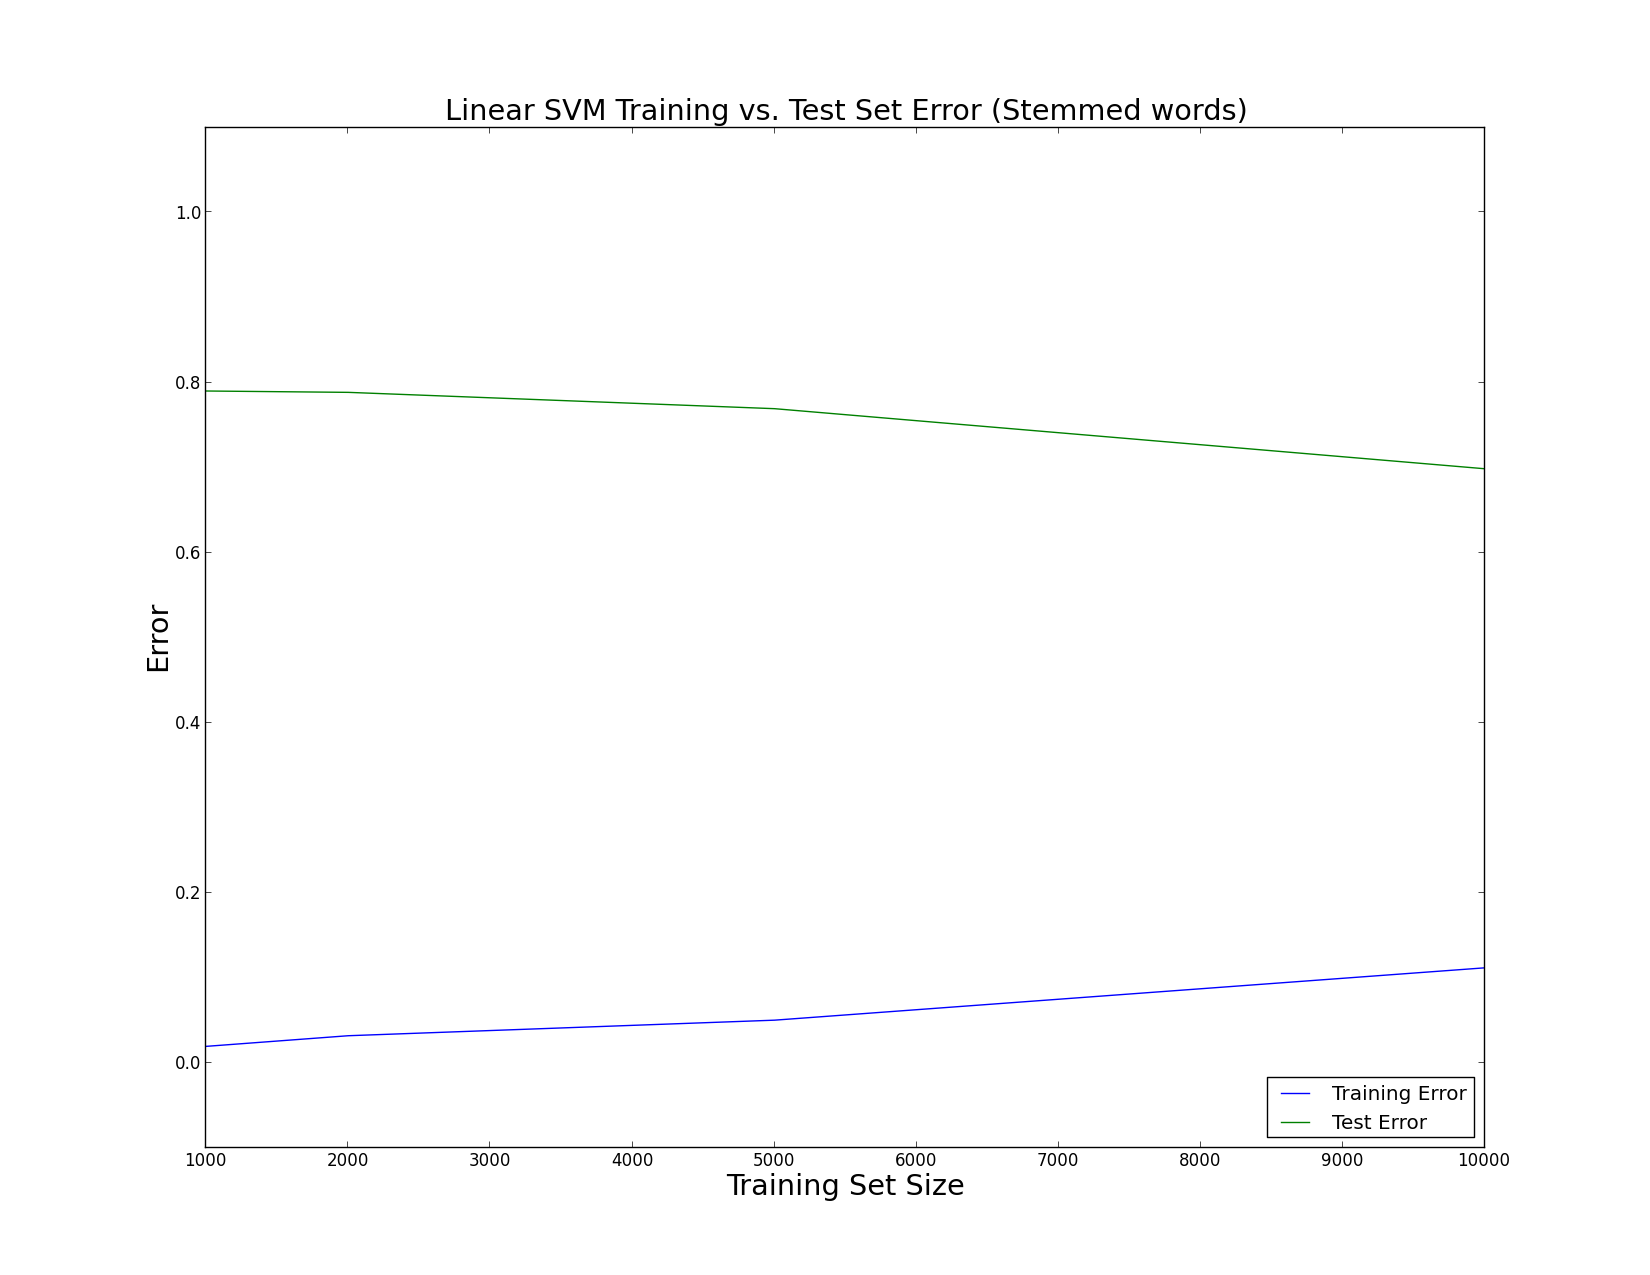
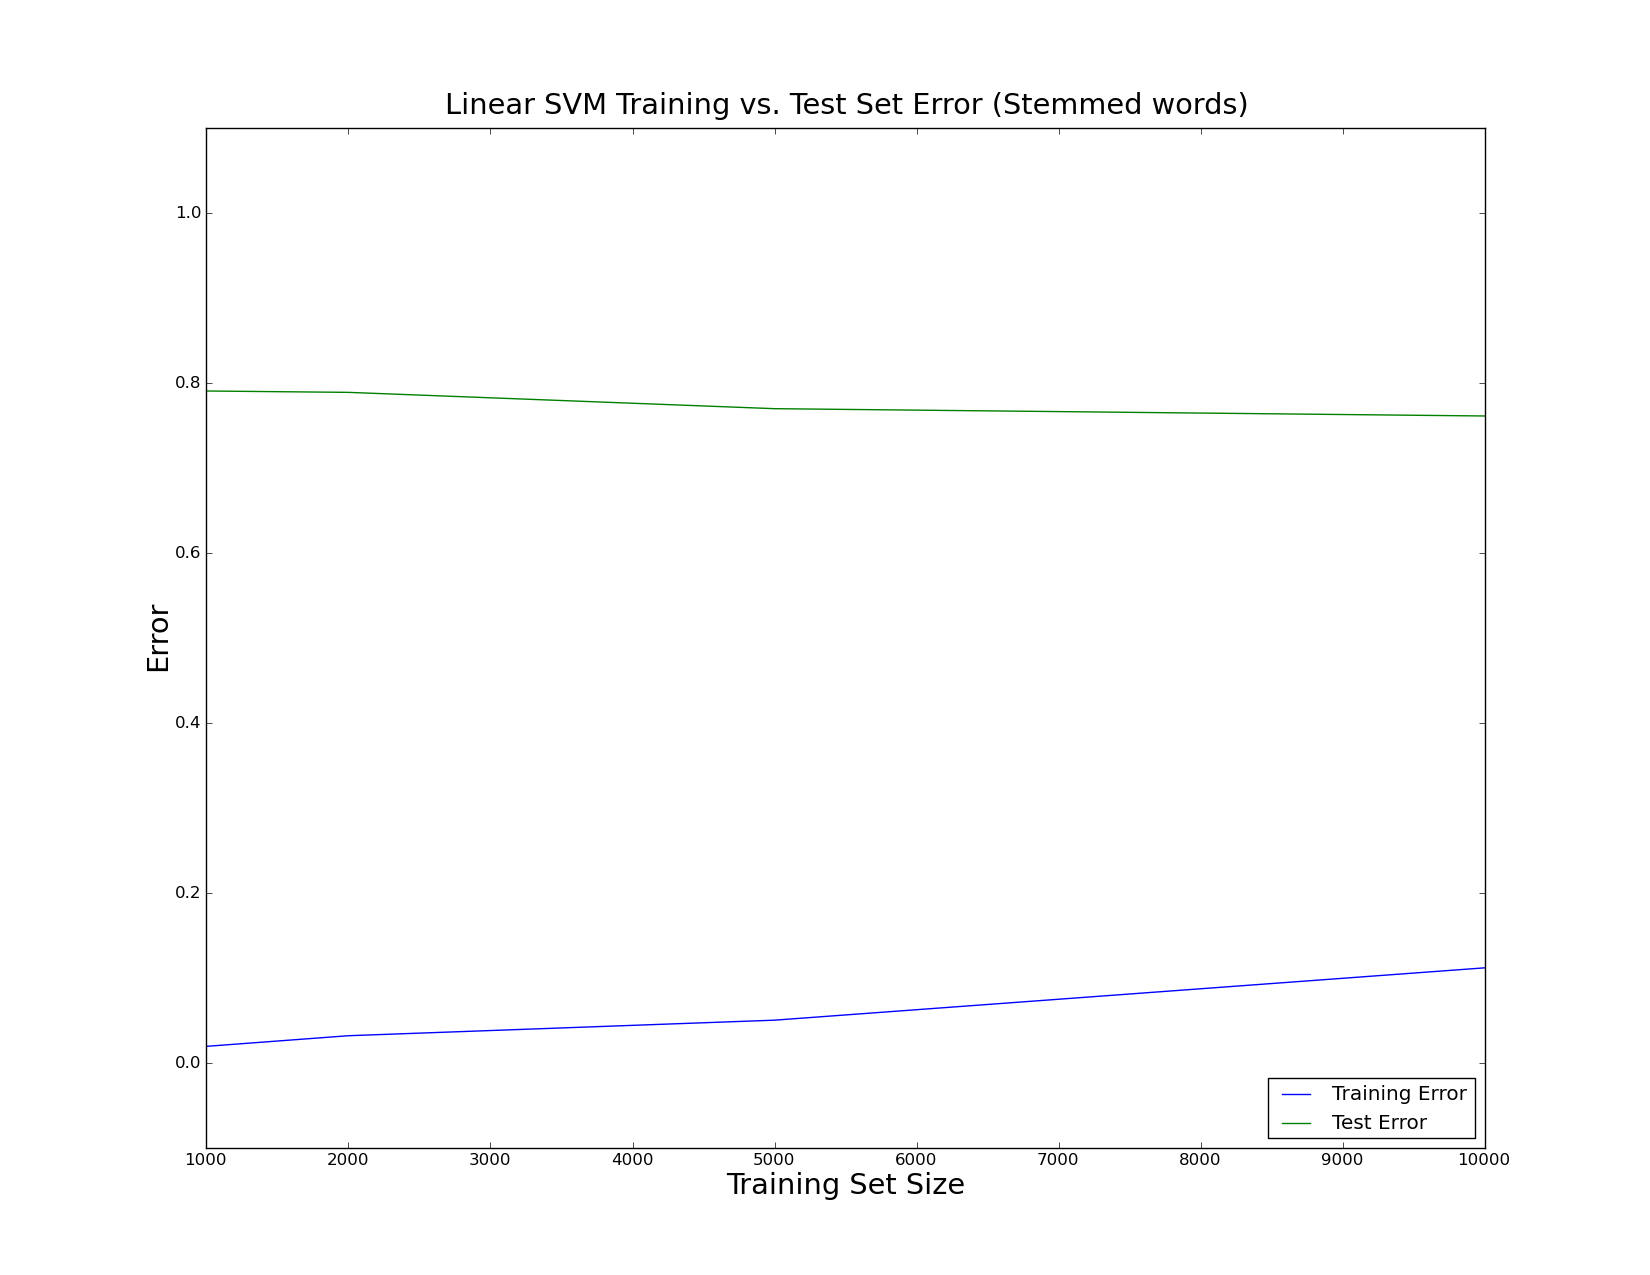
Added more plots

Changed region(s): [[0.1236, 0.0612, 0.8964, 0.1224], [0.1236, 0.8259, 0.8964, 0.9482], [0.4945, 0.3059, 0.6182, 0.3365]]

diff --git a/plot_other2_bothplots.py b/plot_other2_bothplots.py
@@ -1,0 +1,78 @@
+import sys
+import glob
+import os
+import re
+import numpy
+import matplotlib.pyplot as plt
+
+
+def save(path):
+    fig = plt.gcf()
+    fig.set_figwidth(16.5)
+    fig.set_figheight(12.75)
+    plt.savefig(path)
+    plt.clf()
+    plt.cla()
+    plt.close()
+
+ftsz = "xx-large"
+#1000,2000,5000
+nbtest = [1.0 - 0.2864, 1.0 - 0.3121, 1.0 - 0.3312, 1.0 - 0.3310]
+nbtrain = [1.0-0.6740, 1.0-0.6305, 1.0 - 0.5966, 1.0 - 0.5620]
+
+nbteststem = [1.0-0.2390, 1.0-0.2217, 1.0-0.1852, 1.0-0.1690]
+nbtrainstem = [1.0-0.6630, 1.0-0.5240, 1.0-0.3624, 1.0-0.2844]
+
+sgdtest = [1.0 - 0.2358, 1.0 - 0.2478, 1.0 - 0.2829, 1.0 - 0.2857]
+sgdtrain = [1.0-1.0, 1.0-0.9995, 1.0 - 0.9976, 1.0 - 0.9946]
+
+sgdteststem = [1.0 - 0.1688, 1.0 - 0.1548, 1.0 - 0.1826, 1.0 - 0.1821]
+sgdtrainstem = [1.0-0.8060, 1.0-0.5200, 1.0 - 0.4148, 1.0 - 0.4383]
+
+x = [1000, 2000, 5000, 10000]
+
+plt.figure(1)
+plt.subplot(221)
+
+l1, l2 = plt.plot(x, nbtrain, x, nbtest)
+plt.legend([l1,l2],["Training Error", "Test Error"], loc=4)
+plt.ylim((-0.1,1.1))
+plt.title("Naive Bayes Training vs. Test Set Error", fontsize = ftsz)
+plt.xlabel("Training Set Size")
+plt.ylabel("Error")
+
+plt.subplot(222)
+l1, l2 = plt.plot(x, nbtrainstem, x, nbteststem)
+plt.legend([l1,l2],["Training Error", "Test Error"], loc=4)
+
+
+
+plt.title("Naive Bayes Training vs. Test Set Error (Stemmed)", fontsize = ftsz)
+plt.xlabel("Training Set Size")
+plt.ylabel("Error")
+
+plt.subplot(223)
+l1, l2 = plt.plot(x, sgdtrain, x, sgdtest)
+plt.legend([l1,l2],["Training Error", "Test Error"], loc=4)
+plt.ylim((-0.1,1.1))
+
+
+
+plt.title("SGD Training vs. Test Set Error", fontsize = ftsz)
+plt.xlabel("Training Set Size")
+plt.ylabel("Error")
+
+plt.subplot(224)
+
+
+l1, l2 = plt.plot(x, sgdtrainstem, x, sgdteststem)
+plt.legend([l1,l2],["Training Error", "Test Error"], loc=4)
+plt.ylim((-0.1,1.1))
+
+
+
+plt.title("SGD Training vs. Test Set Error (Stemmed)", fontsize = ftsz)
+plt.xlabel("Training Set Size")
+plt.ylabel("Error")
+
+save("other_train_vs_test_both")

diff --git a/plot_both_10k.py b/plot_both_10k.py
@@ -1,0 +1,54 @@
+import sys
+import glob
+import os
+import re
+import numpy
+import matplotlib.pyplot as plt
+
+
+def save(path):
+    fig = plt.gcf()
+    fig.set_figwidth(16.5)
+    fig.set_figheight(12.75)
+    plt.savefig(path)
+    plt.clf()
+    plt.cla()
+    plt.close()
+
+
+#1000,2000,5000
+bayes = [28.64, 31.21, 33.11, 33.10]
+svm_lin = [27.46, 27.35, 27.96, 28.07]
+#svm_rbf = [25.50, 26.05, 26.60]
+grad_desc = [23.58, 24.78, 28.29, 28.57]
+
+bayesstem = [23.90, 22.17, 18.52, 19.29]
+svm_linstem = [21.00, 21.16, 23.07, 23.94]
+#svm_rbf = [25.34, 25.63, 26.27]
+grad_descstem = [16.88, 15.48, 18.26, 18.21]
+
+ftsz = "xx-large"
+x = [1000, 2000, 5000, 10000]
+
+plt.figure(1)
+
+plt.subplot(211)
+
+l1, l2, l3 = plt.plot(x, bayes, x, svm_lin, x, grad_desc)
+plt.legend([l1,l2,l3],["Naive Bayes", "Linear SVM", "Stochastic Gradient Descent"], loc=4)
+
+plt.title("5-Fold Cross Validation Accuracy", fontsize = ftsz)
+plt.xlabel("Training Set Size")
+plt.ylabel("Cross Validation Accuracy")
+
+plt.subplot(212)
+
+l1, l2, l3 = plt.plot(x, bayesstem, x, svm_linstem, x, grad_descstem)
+plt.legend([l1,l2,l3],["Naive Bayes", "Linear SVM", "Stochastic Gradient Descent"], loc=4)
+
+plt.title("5-Fold Cross Validation Accuracy (Stemmed)", fontsize = ftsz)
+plt.xlabel("Training Set Size")
+plt.ylabel("Cross Validation Accuracy")
+
+
+save("both_with_10k")

diff --git a/plot_stem.py b/plot_stem.py
@@ -19,13 +19,13 @@ def save(path):
 #1000,2000,5000
 bayes = [23.90, 22.17, 18.52]
 svm_lin = [21.00, 21.16, 23.07]
-svm_rbf = [25.34, 25.63, 26.27]
+#svm_rbf = [25.34, 25.63, 26.27]
 grad_desc = [16.88, 15.48, 18.26]
 
 x = [1000, 2000, 5000]
 
-l1, l2, l3, l4 = plt.plot(x, bayes, x, svm_lin, x, svm_rbf, x, grad_desc)
-plt.legend([l1,l2,l3,l4],["Naive Bayes", "Linear SVM", "SVM with RBF Kernel", "Stochastic Gradient Descent"], loc=4)
+l1, l2, l3, l4 = plt.plot(x, bayes, x, svm_lin, x, grad_desc)
+plt.legend([l1,l2,l3,l4],["Naive Bayes", "Linear SVM", "Stochastic Gradient Descent"], loc=4)
 
 ftsz = "xx-large"
 

diff --git a/plot_linsvn_both.py b/plot_linsvn_both.py
@@ -20,7 +20,7 @@ ftsz = "xx-large"
 test = [1.0 - 0.2746, 1.0 - 0.2735, 1.0 - 0.2796, 1.0 - 0.2807]
 train = [1.0 - 1.000, 1.0 - 0.9995, 1.0 - 0.9984, 1.0 - 0.9962]
 
-teststem = [1.0 - 0.2100, 1.0 - 0.2116, 1.0 - 0.2308, 1.0 - 0.3015]
+teststem = [1.0 - 0.2100, 1.0 - 0.2116, 1.0 - 0.2308, 1.0 - 0.2394]
 trainstem = [1.0 - 0.9810, 1.0 - 0.9685, 1.0 - 0.9502, 1.0 - 0.8886]
 
 x = [1000, 2000, 5000, 10000]

diff --git a/plot_linsvm_stem.py b/plot_linsvm_stem.py
@@ -17,7 +17,7 @@ def save(path):
 
 
 #1000,2000,5000
-test = [1.0 - 0.2100, 1.0 - 0.2116, 1.0 - 0.2308, 1.0 - 0.3015]
+test = [1.0 - 0.2100, 1.0 - 0.2116, 1.0 - 0.2308, 1.0 - 0.2394]
 train = [1.0 - 0.9810, 1.0 - 0.9685, 1.0 - 0.9502, 1.0 - 0.8886]
 
 x = [1000, 2000, 5000, 10000]
